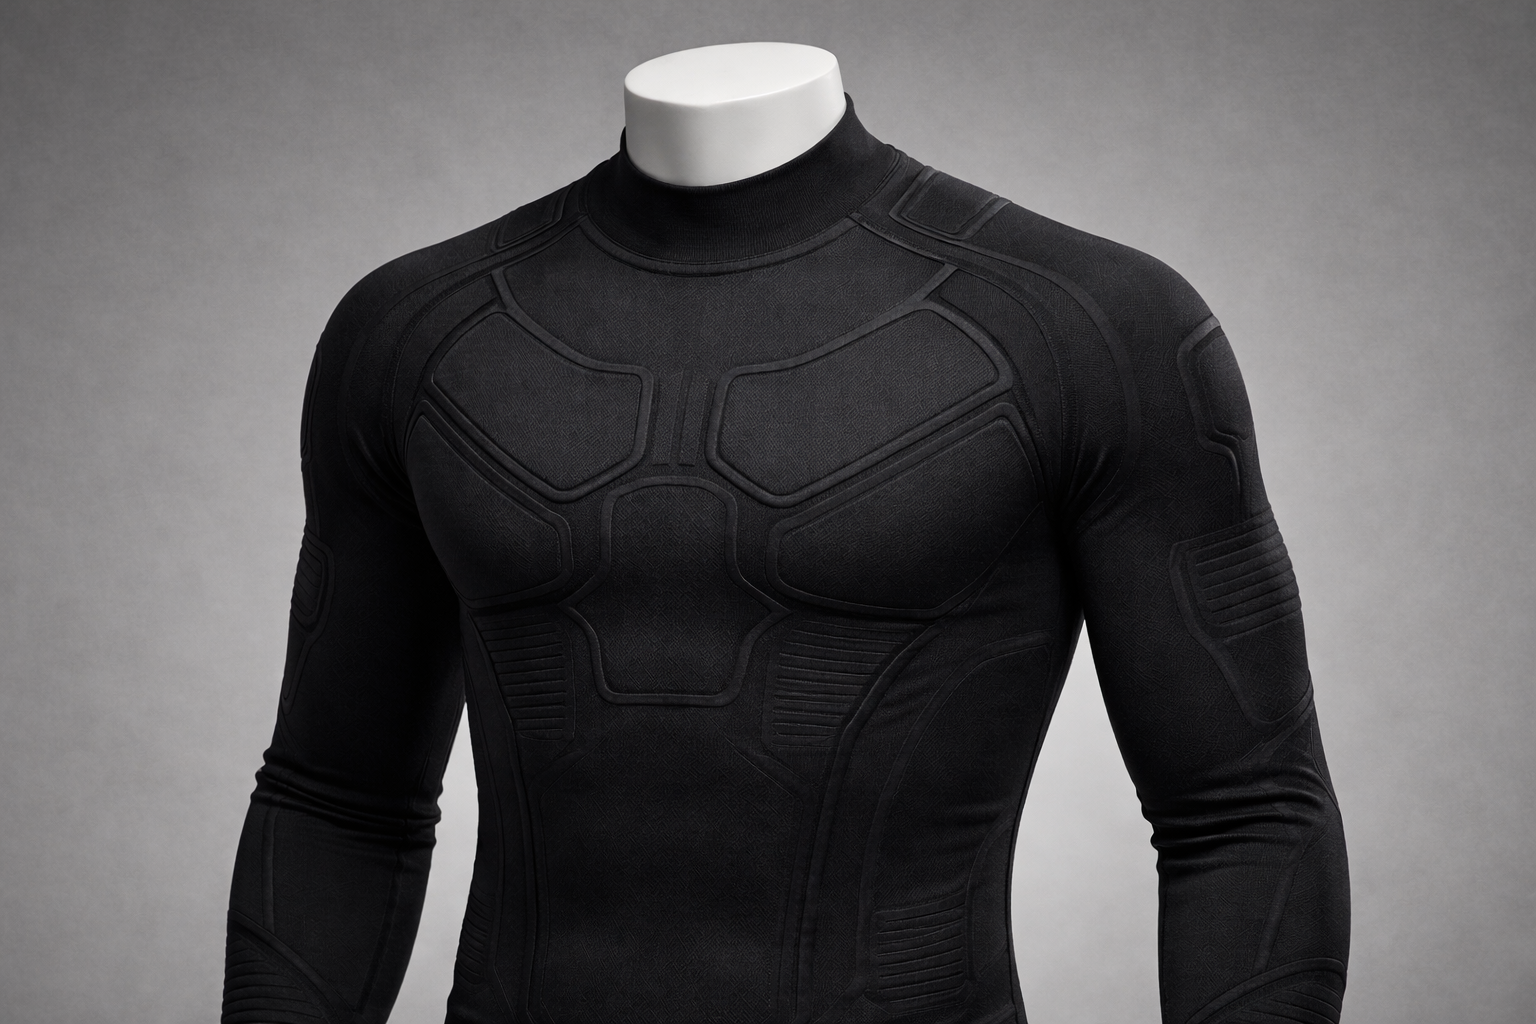
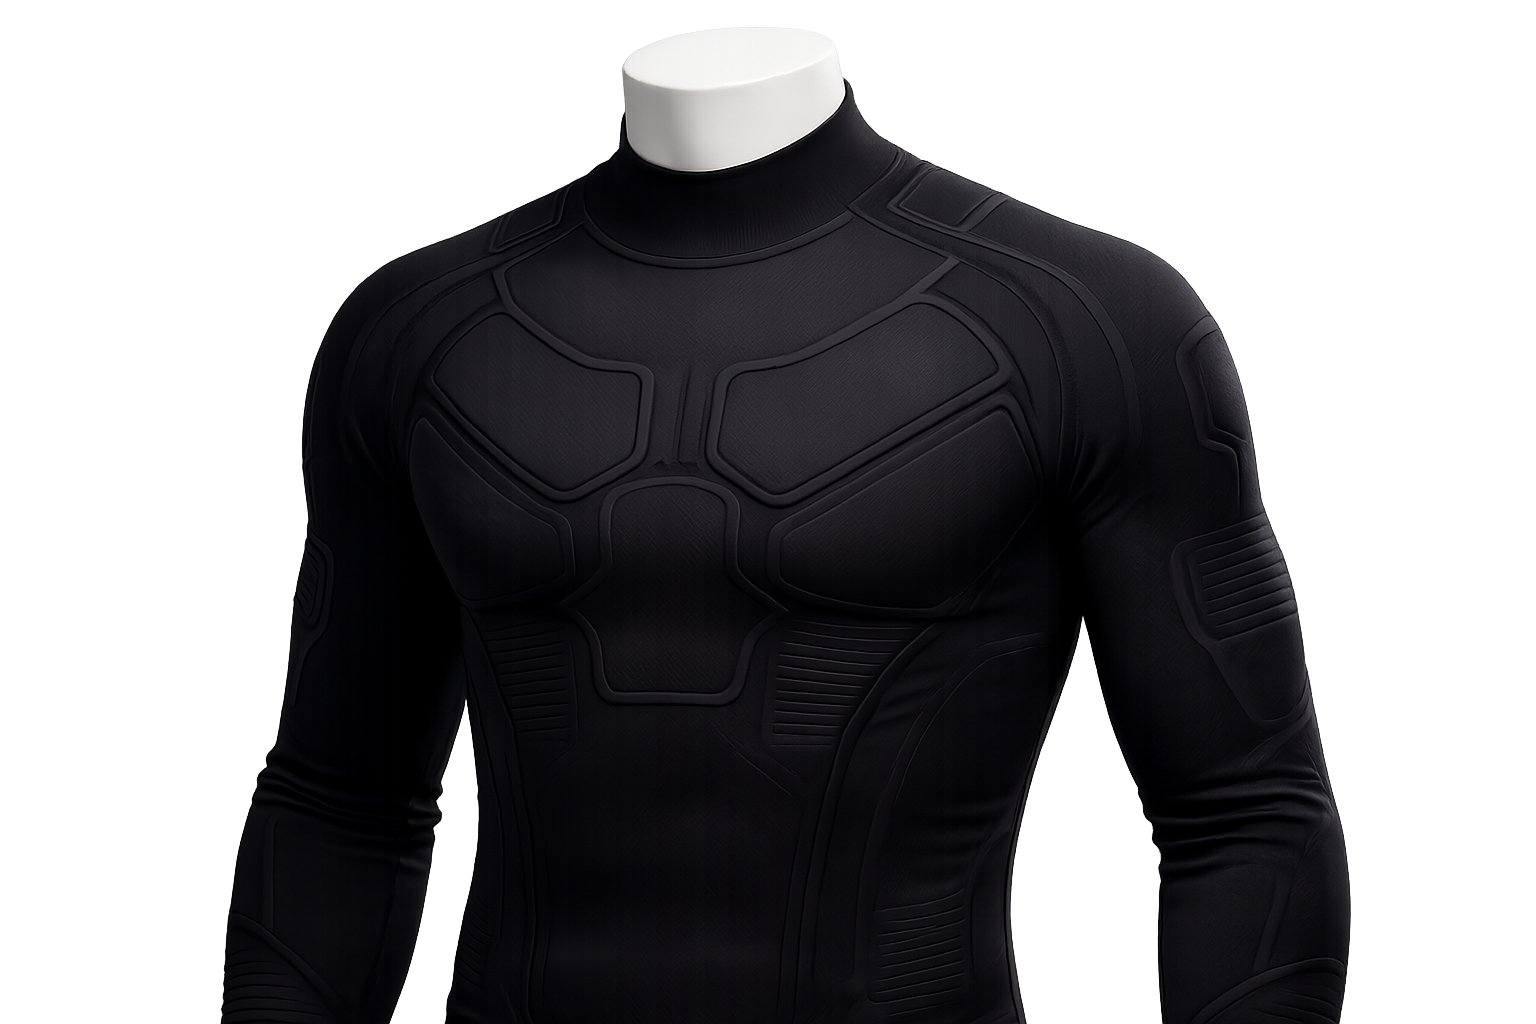
feat: new images, typewriter text, job listing section, Oswald title font

diff --git a/app/components/MissionSection.jsx b/app/components/MissionSection.jsx
@@ -4,53 +4,36 @@ import { useEffect, useRef, useState } from 'react';
 
 const sections = [
   {
-    image: '/images/mission1.png',
-    alt: 'Ski scenario',
-    text: `We're developing a system that reads the shifts inside you and around you.
-Micro-signals from the body, subtle changes in the environment.
-It feels them before you notice them.
-It prepares before you even know you need it.`,
+    image: '/images/shirt.png',
+    alt: 'The suit',
+    text: `A form of support designed to stay close to the body.`,
   },
   {
-    image: '/images/mission2.png',
-    alt: 'Military or recovery scenario',
-    text: `In places where every second counts, comfort is not a luxury, it's a tool.
-The system doesn't wait for discomfort to appear.
-It anticipates it.
-It stabilizes before you even ask.
-A second skin that gives you certainty when your body can't.`,
+    image: '/images/6 layers textile.png',
+    alt: 'The layers',
+    text: `Its complexity is not visible.
+By design.
+Silently present. Close to the body.`,
   },
   {
-    image: '/images/mission3.png',
-    alt: 'Astronaut in EVA',
-    text: `So when the change arrives, in the cold, in the heat, in motion, at rest,
-in a suit, in recovery, on ice, or even in orbit,
-your system's already in place.
-
-And you're already in control.`,
+    image: '/images/environment.png',
+    alt: 'The environment',
+    text: `Discreet in presence. Serious in purpose.
+Not distracting. Not asking to be managed.
+Built to support physiological stability when it matters most.`,
   },
 ];
 
 const SHOW_CTA = false;
 
-const newText = [
-  "There is a moment, just before something begins to slip, when the body is already under pressure.",
-  "That is the space Grovillon is being shaped for.",
-  "A form of support designed to stay close to the body.",
-  "Discreet in presence. Serious in purpose.",
-  "Not loud. Not distracting. Not asking to be managed.",
-  "Built for critical and high demand conditions, it is shaped around one idea: that support should arrive quietly, before strain becomes something larger.",
-  "The person wearing it is not meant to think about it.",
-  "They move. They focus. They continue.",
-  "What matters is not spectacle.",
-  "What matters is steadiness.",
-  "Its complexity is not visible.",
-  "By design.",
-  "Silently present. Close to the body.",
-  "Built to support physiological stability when it matters most.",
+const typewriterText = [
+  "Built for situations where the body is asked to carry more than usual.",
+  "",
+  "From recovery and thermal stress to demanding operational environments, the focus remains the same:",
+  "quiet support, close to the body, when stability matters most.",
 ];
 
-const fullText = newText.join('\n');
+const fullText = typewriterText.join('\n');
 
 function TypewriterText() {
   const [displayed, setDisplayed] = useState('');
@@ -121,25 +104,13 @@ export default function MissionSection() {
         ))}
       </div>
 
-      {/* 3 εικόνες + typewriter κείμενο */}
+      {/* Typewriter κείμενο */}
       <div className="max-w-4xl mx-auto mt-48 space-y-16">
-        <div className="grid grid-cols-1 md:grid-cols-3 gap-6">
-          <div className="rounded-xl overflow-hidden shadow-lg h-60 md:h-72">
-            <Image src="/images/shirt.png" alt="The suit" width={580} height={430} className="object-cover w-full h-full rounded-xl" />
-          </div>
-          <div className="rounded-xl overflow-hidden shadow-lg h-60 md:h-72">
-            <Image src="/images/6 layers textile.png" alt="The layers" width={580} height={430} className="object-cover w-full h-full rounded-xl" />
-          </div>
-          <div className="rounded-xl overflow-hidden shadow-lg h-60 md:h-72">
-            <Image src="/images/environment.png" alt="The environment" width={580} height={430} className="object-cover w-full h-full rounded-xl" />
-          </div>
-        </div>
-
         <TypewriterText />
       </div>
 
       {/* Διαχωριστική γραμμή + αγγελία */}
-<div className="max-w-2xl mx-auto mt-80">
+      <div className="max-w-2xl mx-auto mt-80">
         <div className="border-t-[3px] border-white/20 mb-16" />
         <div className="rounded-2xl px-10 py-12 bg-white/[0.06] backdrop-blur-sm shadow-[0_0_60px_rgba(255,255,255,0.04)]">
           <div className="text-center space-y-2">